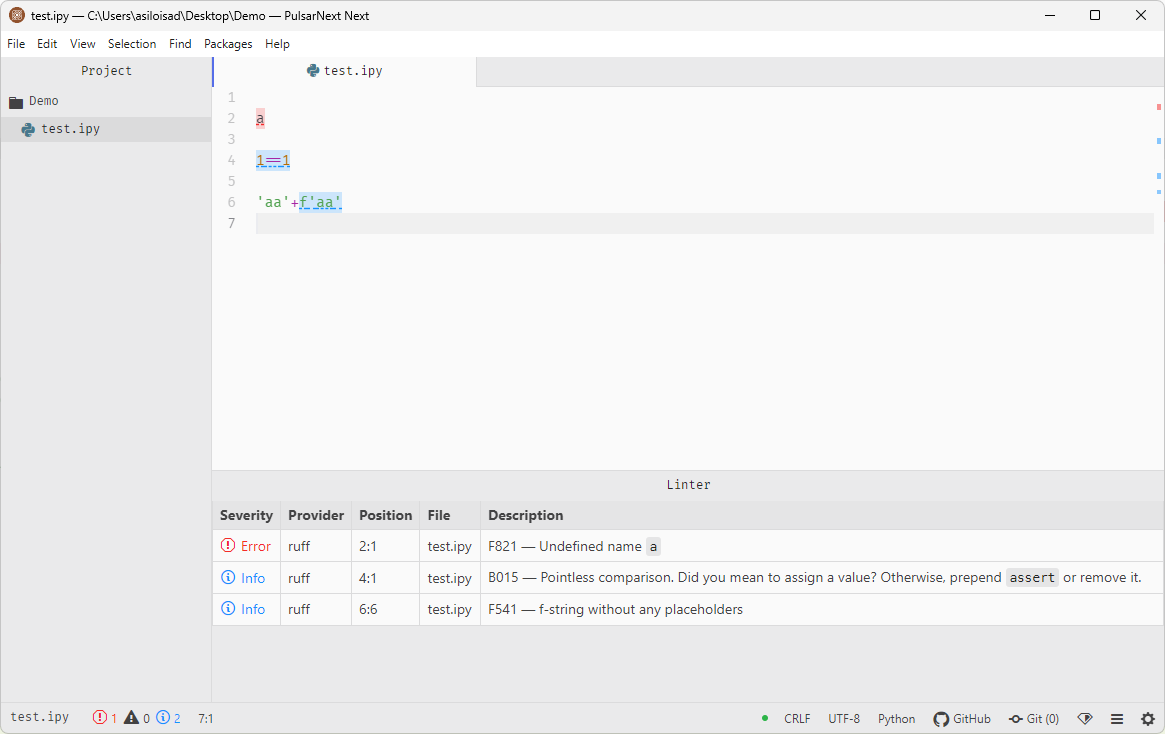
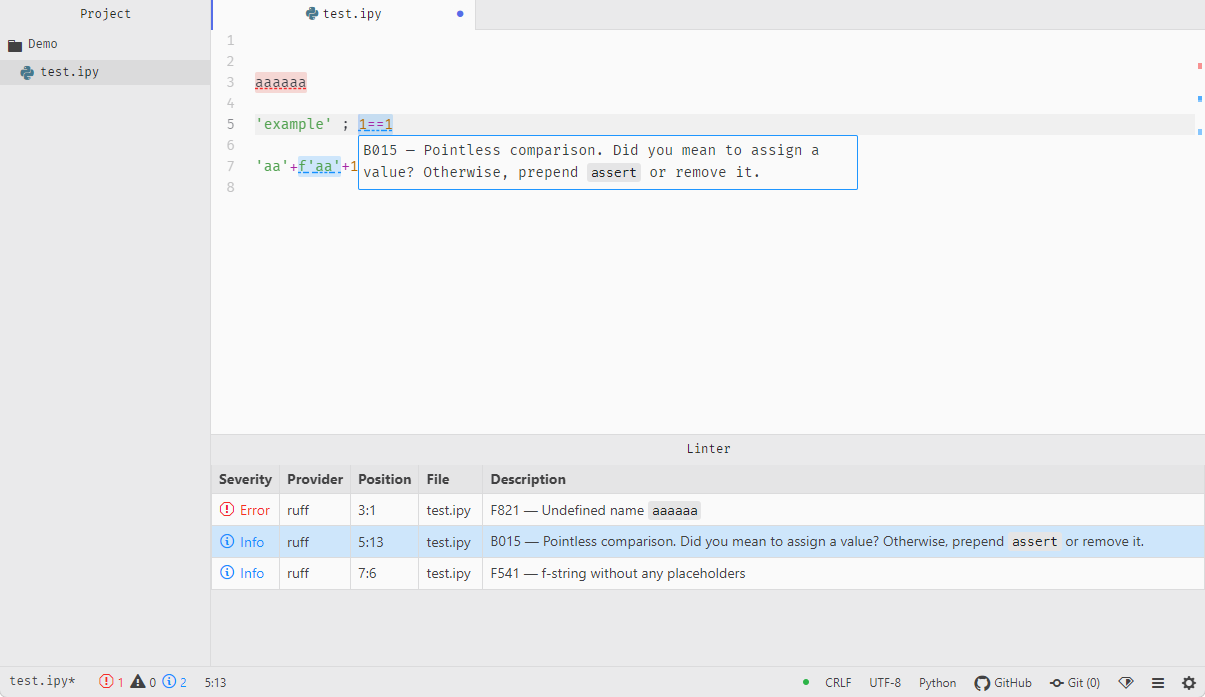
big update

diff --git a/lib/main.js b/lib/main.js
@@ -1,42 +1,47 @@
-const { CompositeDisposable, Disposable } = require('atom')
+const { CompositeDisposable } = require('atom')
 const { StatusPanel } = require('./status')
-const { LinterPanel } = require('./panel')
+const { LinterPanel } = require('./linter')
+const { BubblePanel } = require('./bubble')
 
 module.exports = {
 
   activate() {
-    this.statusPanel = new StatusPanel(this)
-    this.linterPanel = new LinterPanel(this)
+    this.editor = null // initialize
+    this.status = new StatusPanel(this)
+    this.linter = new LinterPanel(this)
+    this.bubble = new BubblePanel(this)
     this.disposables = new CompositeDisposable()
     this.disposables.add(
       atom.workspace.observeTextEditors((editor) => {
         this.patchEditor(editor)
       }),
       atom.workspace.observeActivePaneItem(item => {
-        if (!item) {
-          this.statusPanel.setEditor(null)
-          this.linterPanel.setEditor(null)
+        if (this.editor==item) {
+          return
+        } else if (!item) {
+          this.setEditor(null)
           this.updateCurrent()
         } else if (atom.workspace.isTextEditor(item)) {
-          this.statusPanel.setEditor(item)
-          this.linterPanel.setEditor(item)
+          this.setEditor(item)
           this.updateCurrent()
         }
       }),
       atom.commands.add('atom-workspace', {
-        'linter-ui:toggle': () => this.linterPanel.toggle(),
+        'linter-ui:toggle': () => this.linter.toggle(),
       }),
       atom.commands.add('atom-text-editor:not([mini])', {
-        'linter-ui:scroll': () => this.scroll(),
-        'linter-ui:inspect': () => this.inspect(),
+        'linter-ui:inspect': () => this.bubble.inspect(),
+        'linter-ui:next': () => this.bubble.inspectNext(),
+        'linter-ui:prev': () => this.bubble.inspectPrev(),
       }),
     )
   },
 
   deactivate () {
     this.disposables.dispose()
-    this.linterPanel.destroy()
-    this.statusPanel.destroy()
+    this.bubble.destroy()
+    this.linter.destroy()
+    this.status.destroy()
     for (let buffer of this.getBuffers()) {
       if (buffer.linterUI) {
         buffer.linterUI.text.error.clear()
@@ -149,57 +154,55 @@ module.exports = {
     }
   },
 
+  setEditor(editor) {
+    this.editor = editor
+    this.status.setEditor(editor)
+    this.linter.setEditor(editor)
+    this.bubble.setEditor(editor)
+  },
+
   updateCurrent() {
-    this.statusPanel.update()
-    this.linterPanel.update()
+    this.status.update()
+    this.linter.update()
   },
 
   consumeStatusBar(statusBar) {
-    statusBar.addLeftTile({ item:this.statusPanel, priority:0 })
+    statusBar.addLeftTile({ item:this.status, priority:0 })
   },
 
-  getNext(editor, pos='start') {
-    if (!editor) { editor = atom.workspace.getActiveTextEditor() }
-    if (!editor) { return }
-    let cursorPos = editor.getCursorBufferPosition()
-    for (let message of editor.buffer.linterUI.messages) {
-      if (message.location.position[pos].isGreaterThan(cursorPos)) {
-        return { editor, message }
+  getCurrentMessage() {
+    if (!this.editor) { return }
+    let cursorPosition = this.editor.getCursorBufferPosition()
+    for (let message of this.editor.buffer.linterUI.messages) {
+      if (message.location.position.containsPoint(cursorPosition)) {
+        return message
       }
     }
-    if (editor.buffer.linterUI.messages.length) { // loop
-      return { editor, message:editor.buffer.linterUI.messages[0] }
+  },
+
+  getNextMessage() {
+    if (!this.editor) { return }
+    let cursorPos = this.editor.getCursorBufferPosition()
+    for (let message of this.editor.buffer.linterUI.messages) {
+      if (message.location.position.start.isGreaterThan(cursorPos)) {
+        return message
+      }
+    }
+    if (this.editor.buffer.linterUI.messages.length) { // loop
+      return this.editor.buffer.linterUI.messages[0]
     }
   },
 
-  scroll(editor) {
-    const next = this.getNext(editor, 'start')
-    if (!next) { return }
-    next.editor.setCursorBufferPosition(next.message.location.position.start, { autoscroll:true })
-    next.editor.element.focus()
-  },
-
-  inspect(editor) {
-    const next = this.getNext(editor, 'end')
-    if (next) {
-      const head = [
-        next.message.linterName,
-        ' ',
-        next.message.location.position.start.row+1,
-        ':',
-        next.message.location.position.start.column+1,
-      ].join('')
-      const text = next.message.excerpt
-      const opts = { dismissable:true, description:text }
-      if (next.message.severity==='error') {
-        atom.notifications.addError(head, { icon:'stop', ...opts })
-      } else if (next.message.severity==='warning') {
-        atom.notifications.addWarning(head, { icon:'alert', ...opts })
-      } else if (next.message.severity==='info') {
-        atom.notifications.addInfo(head, { icon:'info', ...opts })
+  getPrevMessage() {
+    if (!this.editor) { return }
+    let cursorPos = this.editor.getCursorBufferPosition()
+    for (let message of this.editor.buffer.linterUI.messages.toReversed()) {
+      if (message.location.position.start.isLessThan(cursorPos)) {
+        return message
       }
-    } else {
-      atom.notifications.addSuccess('No issues 👍', { dismissable:true })
+    }
+    if (this.editor.buffer.linterUI.messages.length) { // loop
+      return this.editor.buffer.linterUI.messages[this.editor.buffer.linterUI.messages.length-1]
     }
   },
 }

diff --git a/lib/bubble.js b/lib/bubble.js
@@ -1,0 +1,74 @@
+const { CompositeDisposable } = require('atom')
+
+class BubblePanel {
+
+  constructor(pkg) {
+    this.pkg = pkg
+    this.editor = null // initialize
+    this.signal = null // initialize
+    this.marker = null // initialize
+  }
+
+  destroy() {
+    this.destroyHint()
+    this.editor = null
+  }
+
+  setEditor(editor) {
+    this.destroyHint()
+    this.editor = editor
+  }
+
+  createHint(message, position) {
+    if (!this.editor) { return }
+    let item = document.createElement('div')
+    item.classList.add('linter-bubble', message.severity)
+    item.innerHTML = atom.ui.markdown.render(message.excerpt)
+    this.marker = this.editor.markBufferRange(
+      [position,position], { invalidate:'never' })
+    let deco = this.editor.decorateMarker(this.marker, { type:'overlay', item:item })
+    this.marker.onDidDestroy(() => { deco.destroy() })
+    this.signal = this.editor.onDidChangeCursorPosition(() => { this.destroyHint() })
+  }
+
+  destroyHint() {
+    if (this.signal) {
+      this.signal.dispose()
+      this.signal = null
+    }
+    if (this.marker) {
+      this.marker.destroy()
+      this.marker = null
+    }
+  }
+
+  inspect() {
+    this.destroyHint()
+    if (!this.editor) { return }
+    const message = this.pkg.getCurrentMessage()
+    if (!message) { return }
+    this.createHint(message, this.editor.getCursorBufferPosition())
+  }
+
+  inspectNext() {
+    this.destroyHint()
+    if (!this.editor) { return }
+    const message = this.pkg.getNextMessage()
+    if (!message) { return }
+    this.editor.setCursorBufferPosition(message.location.position.start, { autoscroll:true })
+    this.editor.element.focus()
+    this.createHint(message, message.location.position.start)
+  }
+
+  inspectPrev() {
+    this.destroyHint()
+    if (!this.editor) { return }
+    const message = this.pkg.getPrevMessage()
+    if (!message) { return }
+    this.editor.setCursorBufferPosition(message.location.position.start, { autoscroll:true })
+    this.editor.element.focus()
+    this.createHint(message, message.location.position.start)
+  }
+}
+
+module.exports = { BubblePanel }

diff --git a/lib/linter.js b/lib/linter.js
@@ -10,11 +10,13 @@ class LinterPanel {
   constructor(pkg) {
     this.pkg = pkg
     this.editor = null // initialize
+    this.cwatch = null // initialize
     etch.initialize(this)
   }
 
   setEditor(editor) {
     this.editor = editor
+    this.observe()
   }
 
   destroy() {
@@ -38,6 +40,7 @@ class LinterPanel {
     const data = []
     if (this.editor) {
       const buffer = this.editor.getBuffer()
+      const curpos = this.editor.getCursorBufferPosition()
       for (let message of buffer.linterUI.messages) {
         let scls
         if (message.severity==='error') {
@@ -52,13 +55,15 @@ class LinterPanel {
           this.editor.setCursorBufferPosition(message.location.position.start, { autoscroll:true })
           this.editor.element.focus()
         }
-        let item = <tr class="linter-row" on={{click:scroll}}>
+        let icls = message.location.position.containsPoint(curpos) ? ' current':''
+        let item = <tr class={"linter-row "+message.severity+icls} on={{click:scroll}}>
           <td class={scls}>{stxt}</td>
           <td class="linter-provider">{message.linterName}</td>
           <td class="linter-position">{message.location.position.start.row+1}:{message.location.position.start.column+1}</td>
           <td class="linter-file">{message.location.file.split(path.sep).pop()}</td>
           <td class="linter-description" innerHTML={ atom.ui.markdown.render(message.excerpt) }/>
         </tr>
+
         data.push(item)
       }
     }
@@ -90,6 +95,28 @@ class LinterPanel {
     atom.workspace.toggle(this).then(() => {
       if (refocus) { prev.focus() }
     })
+  }
+
+  observe() {
+    if (this.cwatch) {
+      this.cwatch.dispose()
+      this.cwatch = null
+    }
+    if (this.editor) {
+      this.cwatch = this.editor.onDidChangeCursorPosition(
+        throttle(() => { this.update() }, 100))
+    }
+  }
+}
+
+function throttle(func, timeout) {
+  let timer = false
+  return (...args) => {
+    if (timer) { return }
+    timer = setTimeout(() => {
+      func.apply(this, args)
+      timer = false
+    }, timeout)
   }
 }
 

diff --git a/styles/linter-ui.less b/styles/linter-ui.less
@@ -14,11 +14,31 @@
   }
 }
 
-.linter-high {
-  border-radius: 2px;
-  z-index: 10000000;
+.linter-bubble {
+  max-width: 500px;
+  border-radius: 3px;
+  z-index: 100;
+  background-color: @base-background-color;
+  border: 1px solid;
   &.error {
-    background-color: fade(@background-color-error, 20%) !important;
+    border-color: @background-color-error;
+  }
+  &.warning {
+    border-color: @background-color-warning;
+  }
+  &.info {
+    border-color: @background-color-info;
+  }
+  p {
+    margin: 4px;
+  }
+}
+
+.linter-high {
+  border-radius: 3px;
+  z-index: 100;
+  &.error {
+    background-color: fade(@background-color-error, 20%);
   }
   &.warning {
     background-color: fade(@background-color-warning, 20%);
@@ -70,6 +90,18 @@
     th:nth-child(1),th:nth-child(2),th:nth-child(3) {
       width: 5%;
       white-space: nowrap;
+    }
+
+    tr.current {
+      &.error {
+        background-color: fade(@background-color-error, 20%);
+      }
+      &.warning {
+        background-color: fade(@background-color-warning, 20%);
+      }
+      &.info {
+        background-color: fade(@background-color-info, 20%);
+      }
     }
   }
 }

diff --git a/lib/status.js b/lib/status.js
@@ -57,7 +57,7 @@ class StatusPanel {
 
   onmouseup(e) {
     if (e.which===1) { // left click
-      this.pkg.linterPanel.toggle()
+      this.pkg.linter.toggle()
     } else if (e.which===3) { // right click
       this.pkg.scroll()
       this.pkg.inspect()

diff --git a/README.md b/README.md
@@ -4,6 +4,18 @@ Lightweight front of [linter](https://github.com/steelbrain/linter) package. Sta
 
 ![demo](https://github.com/asiloisad/pulsar-linter-ui-minimal/blob/master/assets/demo.png?raw=true)
 
+## Commands
+
+In `atom-workspace` there are available commands:
+
+- `linter-ui:toggle`: (default `Alt-L`) show/hide linter panel.
+
+In `atom-text-editor:not([mini])` there are available commands:
+
+- `linter-ui:inspect`: inspect issue at cursor position if exists. Available in context-menu.
+- `linter-ui:next`: (default `Alt-;`) scroll-to and inspect next issue if exists.
+- `linter-ui:prev`: (default `Alt-'`) scroll-to and inspect previous issue if exists.
+
 ## Installation
 
 To install `linter-ui-minimal` search for [linter-ui-minimal](https://web.pulsar-edit.dev/packages/linter-ui-minimal) in the Install pane of the Pulsar settings or run `ppm install linter-ui-minimal`. Alternatively, you can run `ppm install asiloisad/pulsar-linter-ui-minimal` to install a package directly from the GitHub repository.
